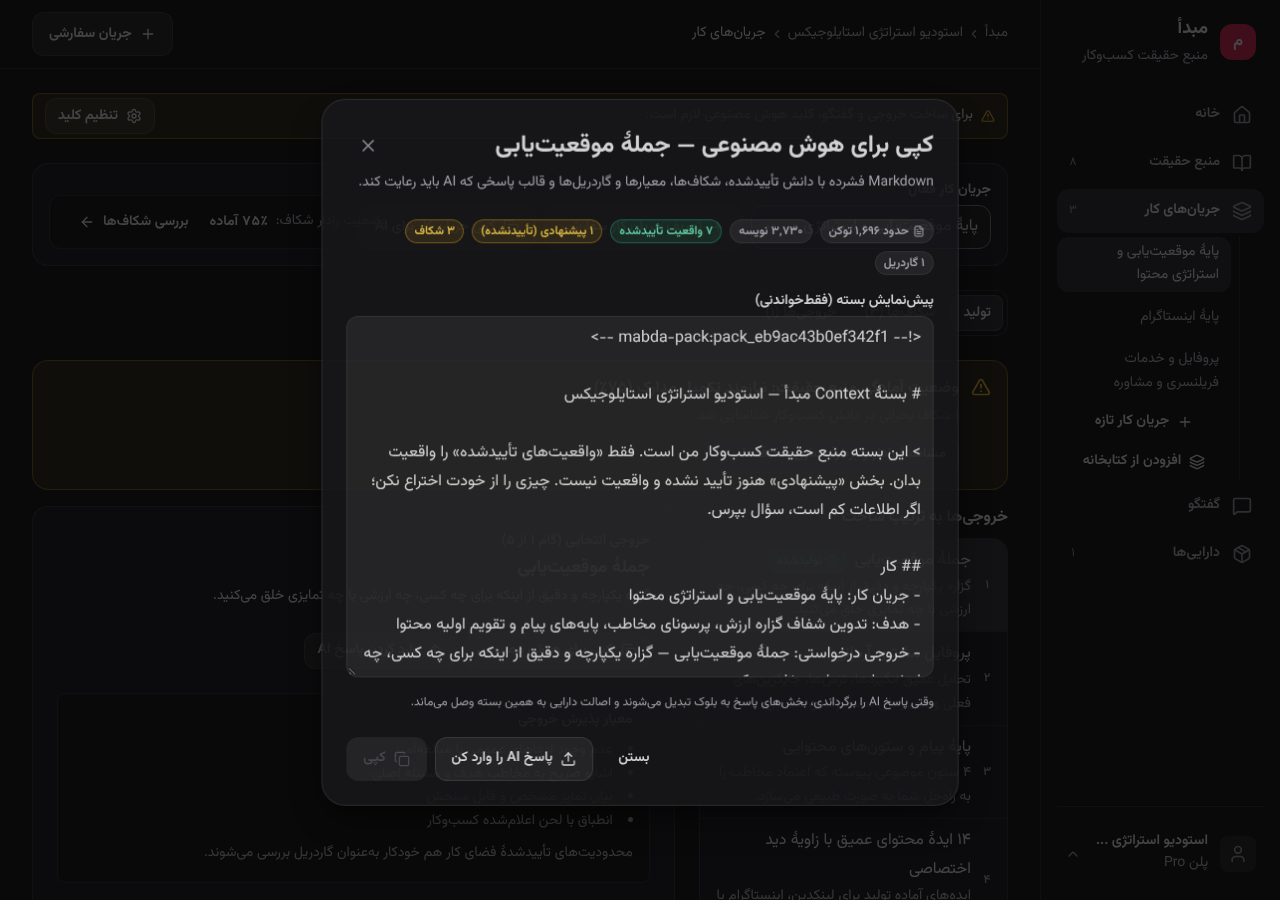
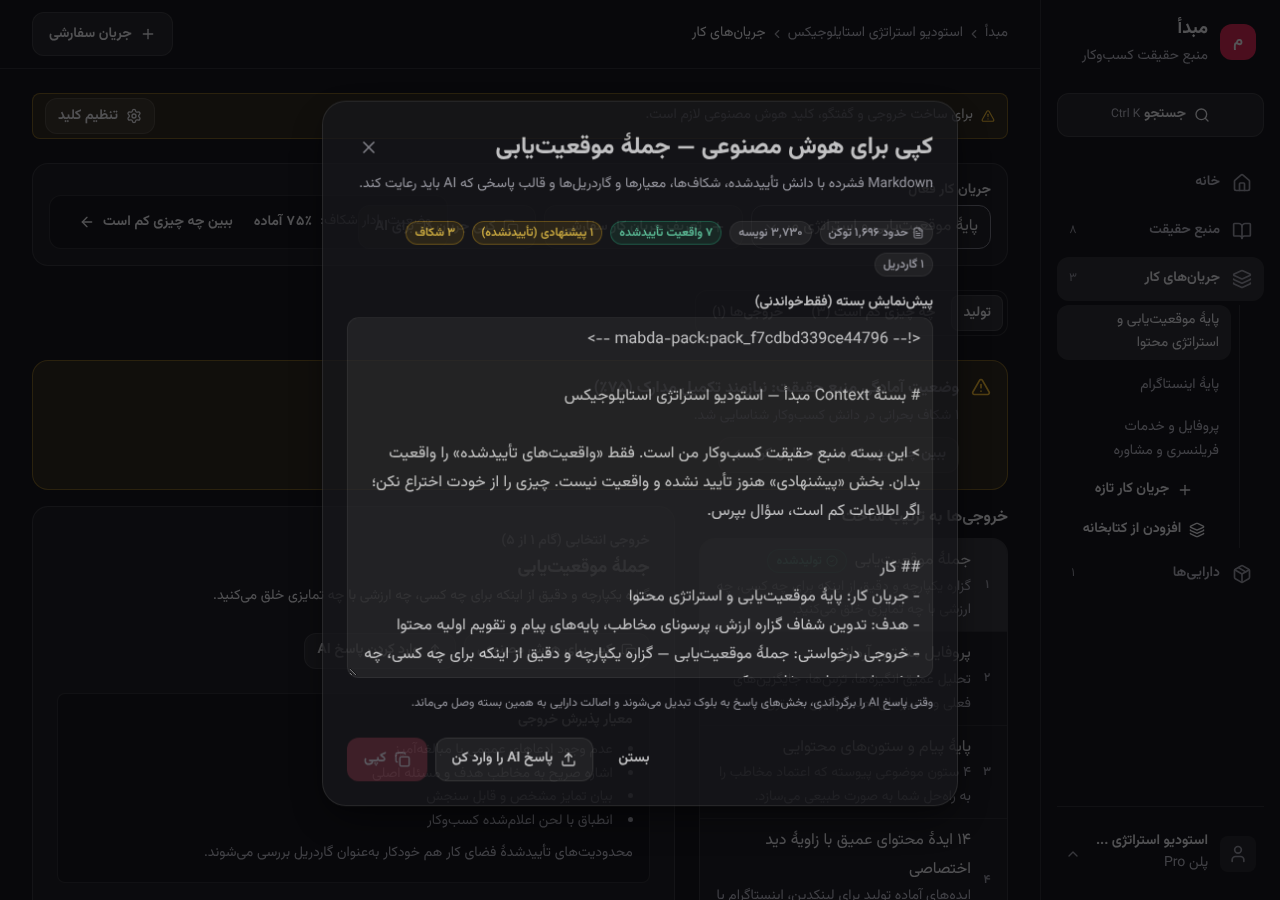
feat(ui): «افزودن مثال» داخل «بیشتر» برای قید و تصمیم همهجا؛ فضای نمونه با دو خط قرمز دارای مثال و یادداشت با سؤال بدون براکت
Claude-Session: https://claude.ai/code/session_012s3hWJ53mCG12g4v1cSDvK

diff --git a/src/core/demoData.ts b/src/core/demoData.ts
@@ -13,7 +13,7 @@ import { nodeTemplateOf } from './templates';
 import type { NodeTemplate } from './templates';
 import { DEFAULT_TREE_NODES } from './specs';
 import type {
-  ContextChange, ContextChangeActor, ContextChangeKind, ContextObject, ContextRelationship, GeneratedDeliverable, Note, ObjectSource, SavedPack, TreeNode, WorkstreamSpec,
+  ContextChange, ContextChangeActor, ContextChangeKind, ContextObject, ContextRelationship, GeneratedDeliverable, Note, ObjectSource, RedlineExample, SavedPack, TreeNode, WorkstreamSpec,
 } from '../types';
 
 const TEHRAN_OFFSET_MIN = 210; // UTC+3:30 (no daylight saving)
@@ -75,6 +75,8 @@ interface Spec {
   /** the record of a Decision: `reviewOnDaysAgo` becomes a date */
   record?: { question?: string; options?: Array<{ title: string; rejectedReason?: string }>; expectation?: string; reviewOnDaysAgo?: number };
   reach?: 'global' | 'position';
+  /** right / wrong examples of a red line */
+  examples?: RedlineExample[];
   /** days ago the object stopped applying (an end date in the past = expired) */
   expiredDaysAgo?: number;
 }
@@ -128,7 +130,7 @@ export function buildDemo(now: Date): DemoData {
     }
     objects.push({
       id: s.id, workspaceId: W, type: s.type, status, provenance: s.provenance, title: s.title, content, nodeId: s.node, version,
-      ...(s.supersededBy ? { supersededById: s.supersededBy.id } : {}), ...(s.slot ? { slotKey: s.slot } : {}), ...(s.reach ? { reach: s.reach } : {}), ...(s.assumption ? { assumption: true, ...(s.reviewByDaysAgo !== undefined ? { reviewBy: at(s.reviewByDaysAgo, 12).slice(0, 10) } : {}) } : {}),
+      ...(s.supersededBy ? { supersededById: s.supersededBy.id } : {}), ...(s.slot ? { slotKey: s.slot } : {}), ...(s.reach ? { reach: s.reach } : {}), ...(s.examples ? { examples: s.examples } : {}), ...(s.assumption ? { assumption: true, ...(s.reviewByDaysAgo !== undefined ? { reviewBy: at(s.reviewByDaysAgo, 12).slice(0, 10) } : {}) } : {}),
       ...(s.record ? { record: { ...(s.record.question ? { question: s.record.question } : {}), ...(s.record.options ? { options: s.record.options } : {}), ...(s.record.expectation ? { expectation: s.record.expectation } : {}), ...(s.record.reviewOnDaysAgo !== undefined ? { reviewOn: at(s.record.reviewOnDaysAgo, 12).slice(0, 10) } : {}) } } : {}), ...(s.expiredDaysAgo !== undefined ? { validUntil: at(s.expiredDaysAgo, 12).slice(0, 10) } : {}),
       ...(s.source ? { source: { kind: s.source.kind, ...(s.source.label ? { label: s.source.label } : {}), ...(s.source.reason ? { reason: s.source.reason } : {}), ...(s.source.quote ? { quote: s.source.quote } : {}), ...(s.source.noteId ? { noteId: s.source.noteId, lineKey: s.source.lineKey } : {}), at: at(s.source.daysAgo ?? s.created[0], s.created[1] ?? 10) } } : {}),
       createdAt: created, updatedAt: updated,
@@ -149,7 +151,8 @@ export function buildDemo(now: Date): DemoData {
   add({ id: 'dm_problem', type: 'Fact', node: 'business', title: 'معضل اصلی مخاطب', first: 'پیدا کردن قهوهٔ خوب سخت است.', status: 'Confirmed', provenance: 'User Input', slot: 'core_problem', created: [40, 12],
     edits: [{ d: 2, content: 'پیدا کردن قهوهٔ واقعاً تازه سخت است: بیشتر دانهها هفتهها پیش برشته شدهاند و تاریخ برشته روی بسته نیست.', reason: 'بعد از جوابهای نظرسنجی.' }] });
   add({ id: 'dm_valueprop', type: 'Decision', node: 'product', title: 'پیشنهاد ارزش', first: 'قهوهٔ تازهبرشته با تاریخ برشتهٔ روی بسته و یک منشأ تازه در هر ماه.', status: 'Confirmed', provenance: 'User Input', slot: 'value_proposition', created: [38] });
-  add({ id: 'dm_nodiscount', type: 'Constraint', node: 'offer', title: 'بدون تخفیف', first: 'تخفیف نداریم؛ ارزش را با کیفیت نشان میدهیم و روی قیمت اشتراک چانه نمیزنیم.', status: 'Confirmed', provenance: 'User Input', slot: 'pricing_boundary', created: [30], reach: 'global' });
+  add({ id: 'dm_nodiscount', type: 'Constraint', node: 'offer', title: 'بدون تخفیف', first: 'تخفیف نداریم؛ ارزش را با کیفیت نشان میدهیم و روی قیمت اشتراک چانه نمیزنیم.', status: 'Confirmed', provenance: 'User Input', slot: 'pricing_boundary', created: [30], reach: 'global',
+    examples: [{ kind: 'good', text: 'اشتراک سهماهه را با یک دانهٔ هدیه همراه میکنیم.' }, { kind: 'bad', text: 'فقط تا آخر هفته ۲۰٪ تخفیف!' }] });
   add({ id: 'dm_discount', type: 'Decision', node: 'offer', title: 'کمپین ماه اول', first: 'برای ماه اول اشتراک تخفیف ۲۰ درصد بدهیم.', status: 'Proposed', provenance: 'AI Suggested', created: [2, 15],
     source: { kind: 'mcp', label: 'Claude', reason: 'در گفتگو گفتی میخواهی ماه اول جذاب باشد.' } });
 
@@ -190,7 +193,8 @@ export function buildDemo(now: Date): DemoData {
   // ── workshop ───────────────────────────────────────────────────────────────────────────────
   add({ id: 'dm_ws_price', type: 'Decision', node: 'dn_ws', title: 'قیمت کارگاه', first: '۸۵۰ هزار تومان برای هر شرکتکننده.', status: 'Confirmed', provenance: 'User Input', slot: 'workshop_price', created: [22] });
   add({ id: 'dm_ws_cap', type: 'Fact', node: 'dn_ws', title: 'ظرفیت کارگاه', first: 'هر دوره حداکثر ۱۲ نفر ظرفیت دارد.', status: 'Confirmed', provenance: 'User Input', slot: 'workshop_capacity', created: [22, 11] });
-  add({ id: 'dm_ws_refund', type: 'Constraint', node: 'dn_ws', title: 'بازگشت وجه کارگاه', first: 'تا ۴۸ ساعت قبل از کارگاه بازگشت وجه کامل داریم؛ بعد از آن بازگشت وجه نداریم.', status: 'Confirmed', provenance: 'User Input', created: [22, 12], reach: 'position' });
+  add({ id: 'dm_ws_refund', type: 'Constraint', node: 'dn_ws', title: 'بازگشت وجه کارگاه', first: 'تا ۴۸ ساعت قبل از کارگاه بازگشت وجه کامل داریم؛ بعد از آن بازگشت وجه نداریم.', status: 'Confirmed', provenance: 'User Input', created: [22, 12], reach: 'position',
+    examples: [{ kind: 'good', text: 'انصراف ۵۰ ساعت قبل از کارگاه: بازگشت کامل وجه.' }, { kind: 'bad', text: 'انصراف همان روز کارگاه: بازگشت وجه.' }] });
   add({ id: 'dm_ws_plan', type: 'Decision', node: 'dn_ws_prog', title: 'برنامهٔ جلسهها', first: 'سه جلسهٔ دو ساعته: آشنایی با دانه، برشتهکاری، قهوهچشی.', status: 'Proposed', provenance: 'AI Suggested', created: [5, 11],
     source: { kind: 'coach', reason: 'از جوابهایت دربارهٔ کارگاه ساختم؛ بررسیاش کن.' } });
 
@@ -237,9 +241,9 @@ export function buildDemo(now: Date): DemoData {
 
   // ── notes: raw thoughts (never fed to a model) ────────────────────────────────────────────────
   const notes: Note[] = [
-    { id: 'dnote_1', nodeId: 'business', content: 'شاید یک اشتراک هدیه هم بسازیم؟ مناسب عید و تولد؛ کانالش را از @«کانال اصلی تبلیغ» برداریم؟', at: at(5, 20) },
-    { id: 'dnote_2', nodeId: 'dn_sub', content: 'اگر دانه را آسیابشده بفرستیم شکایتها کم میشود؟ ولی عطرش زود میپرد.', at: at(3, 21) },
-    { id: 'dnote_3', nodeId: 'dn_ws', content: 'کارگاه آنلاین هم برگزار کنیم؟ جلسهها را ضبط کنیم و بفروشیم.', at: at(2, 19) },
+    { id: 'dnote_1', nodeId: 'business', content: 'شاید یک اشتراک هدیه هم بسازیم؟ مناسب عید و تولد؛\nکانالش را از @«کانال اصلی تبلیغ» برداریم؟', at: at(5, 20) },
+    { id: 'dnote_2', nodeId: 'dn_sub', content: 'اگر دانه را آسیابشده بفرستیم شکایتها کم میشود؟\nولی عطرش زود میپرد.', at: at(3, 21) },
+    { id: 'dnote_3', nodeId: 'dn_ws', content: 'کارگاه آنلاین هم برگزار کنیم؟\nجلسهها را ضبط کنیم و بفروشیم.', at: at(2, 19) },
     { id: 'dnote_4', nodeId: 'dn_social', content: 'ریلز از مراحل برشتهکاری؛ صدای ترکخوردن دانه خیلی جذاب است.', at: at(2, 22) },
     { id: 'dnote_5', nodeId: 'dn_support', content: 'یک راهنمای کوتاه دمکردن توی هر بسته بگذاریم.', at: at(1, 18) },
     { id: 'dnote_7', nodeId: 'dn_sub', content: 'فکرهای این هفته دربارهٔ اشتراک:\n[سؤال] آیا دانه را آسیابشده هم بفرستیم؟\n[تصمیم باز] قیمت اشتراک سهماهه چقدر باشد؟\n[ایده] جعبهٔ هدیه برای عید\n[فرض] بیشتر مشتریها بعد از سه ماه تمدید میکنند\nاین [فرض] وسط خط است و نشانگر حساب نمیشود.', at: at(3, 11) },

diff --git a/src/components/ContextDetailModal.tsx b/src/components/ContextDetailModal.tsx
@@ -4,7 +4,7 @@
  */
 
 import React, { useEffect, useMemo, useState } from 'react';
-import { ContextDraft, ContextObject, Metric, MetricDirection, GeneratedDeliverable, ContextProvenance, ContextRelationship, ContextStatus, ContextType, TreeNode } from '../types';
+import { ContextDraft, ContextObject, RedlineExample, Metric, MetricDirection, GeneratedDeliverable, ContextProvenance, ContextRelationship, ContextStatus, ContextType, TreeNode } from '../types';
 import { dependentsOf, planDecisions } from '../core/decisionGraph';
 import type { ReviewNeed } from '../core/decisionGraph';
 import { flatten } from '../core/nodeTree';
@@ -17,6 +17,7 @@ import { ApprovalBadge, VersionHistoryView } from './VersionHistoryView';
 import { reasonAllowed, versionHistory } from '../core/versionHistory';
 import type { ContextChange } from '../types';
 import { MX } from '../core/metricsText';
+import { EXAMPLE_LIMIT, EXAMPLE_MAX_CHARS, canHaveExamples, cleanExamples } from '../core/redlineExamples';
 import { parseNumber } from '../core/metrics';
 import { dataApi } from '../services/dataApi';
 import { Alert, Badge, Button, Card, Checkbox, Dialog, Markdown, Menu, SegmentedControl, Select, Tabs, TextField, Textarea, formatJalaliDate, formatNumber } from '../ui';
@@ -115,6 +116,7 @@ const ContextDetailForm: React.FC<ContextDetailModalProps> = ({
   const [reach, setReach] = useState<'global' | 'position'>(object?.reach ?? (object?.type === 'Constraint' || !object ? 'global' : 'position'));
   const [validUntil, setValidUntil] = useState(object?.validUntil ?? '');
   const [facets, setFacets] = useState<string[]>(object?.facets ?? []);
+  const [examples, setExamples] = useState<RedlineExample[]>(object?.examples ?? []);
   const [facetDraft, setFacetDraft] = useState('');
   const [assumption, setAssumption] = useState(object?.assumption === true);
   const [reviewBy, setReviewBy] = useState(object?.reviewBy ?? '');
@@ -205,6 +207,7 @@ const ContextDetailForm: React.FC<ContextDetailModalProps> = ({
       ...(type === 'Constraint' ? { reach } : object?.reach ? { reach: object.reach } : {}),
       ...(validUntil ? { validUntil } : {}),
       ...(facetsFinal().length ? { facets: facetsFinal() } : {}),
+      ...(canHaveExamples({ type, reach: type === 'Constraint' ? reach : object?.reach }) && cleanExamples(examples) ? { examples: cleanExamples(examples) } : {}),
       ...(type === 'Fact' && assumption ? { assumption: true, ...(reviewBy ? { reviewBy } : {}) } : {}),
       ...(type === 'Decision' && (question.trim() || options.some((o) => o.title.trim()) || expectation.trim() || reviewOn || (expMetric && expBy))
         ? { record: { ...(question.trim() ? { question: question.trim() } : {}), ...(options.some((o) => o.title.trim()) ? { options: options.filter((o) => o.title.trim()).map((o) => ({ title: o.title.trim(), ...(o.rejectedReason.trim() ? { rejectedReason: o.rejectedReason.trim() } : {}) })) } : {}), ...(expectation.trim() ? { expectation: expectation.trim() } : {}), ...(reviewOn ? { reviewOn } : {}), ...(expMetric && expBy ? { metricExpectation: { metricId: expMetric, direction: expDir, ...(expTargetNum !== null ? { targetValue: expTargetNum } : {}), by: expBy } } : {}) } }
@@ -352,6 +355,21 @@ const ContextDetailForm: React.FC<ContextDetailModalProps> = ({
           <div className="flex flex-col gap-stack-xs">
             <SegmentedControl label="محدودهٔ اثر این قید" value={reach} onChange={(v) => setReach(v as 'global' | 'position')} items={[{ id: 'global', label: 'همهجا' }, { id: 'position', label: 'فقط این بخش و زیرشاخهها' }]} />
             <p className="body-sm text-text-subtle">{reach === 'global' ? 'در هر خروجی و گفتگو، در هر گرهای، گاردریل است.' : 'فقط برای این گره و زیرگرههایش گاردریل است؛ بخشهای دیگر آن را نمیبینند.'}</p>
+          </div>
+        )}
+        {canHaveExamples({ type, reach: type === 'Constraint' ? reach : object?.reach }) && (
+          <div className="flex flex-col gap-stack-sm" role="group" aria-label="مثالها" data-testid="redline-examples">
+            {examples.map((ex, i) => (
+              <div key={i} className="flex flex-col gap-stack-xs rounded-control-sm border border-border-subtle p-inset-md">
+                <div className="flex flex-wrap items-center justify-between gap-inline-sm">
+                  <SegmentedControl label={`مثال ${formatNumber(i + 1)}`} value={ex.kind} onChange={(v) => setExamples((l) => l.map((x, j) => (j === i ? { ...x, kind: v as RedlineExample['kind'] } : x)))} items={[{ id: 'good', label: 'درست' }, { id: 'bad', label: 'نادرست' }]} />
+                  <Button type="button" size="sm" variant="ghost" iconStart="X" aria-label={`حذف مثال ${formatNumber(i + 1)}`} onClick={() => setExamples((l) => l.filter((_, j) => j !== i))}>حذف</Button>
+                </div>
+                <TextField label="متن کوتاه مثال" value={ex.text} maxLength={EXAMPLE_MAX_CHARS} onChange={(e) => setExamples((l) => l.map((x, j) => (j === i ? { ...x, text: e.target.value } : x)))} hint={ex.kind === 'good' ? 'یک نمونه از آنچه این قاعده را رعایت میکند.' : 'یک نمونه از آنچه این قاعده را میشکند.'} />
+              </div>
+            ))}
+            {examples.length < EXAMPLE_LIMIT && <div><Button type="button" size="sm" variant="ghost" iconStart="Plus" onClick={() => setExamples((l) => [...l, { kind: l.some((x) => x.kind === 'good') ? 'bad' : 'good', text: '' }])}>افزودن مثال</Button></div>}
+            {examples.length > 0 && <p className="body-sm text-text-subtle">مثالها کنار همین قاعده به AI میروند تا مرز را بهتر بفهمد.</p>}
           </div>
         )}
         {isEditing && !isSupersedingMode && reasonAllowed(object!.status) && (

diff --git a/src/services/dataApi.ts b/src/services/dataApi.ts
@@ -99,9 +99,9 @@ export const dataApi = {
   deleteNode: (id: string, nodeId: string, transferTo?: string) =>
     call<{ nodes: TreeNode[]; objects: ContextObject[]; notes: Note[]; files: StoredFile[] }>('DELETE', `${ws(id)}/nodes/${nodeId}${transferTo ? `?transferTo=${encodeURIComponent(transferTo)}` : ''}`),
 
-  createObject: (id: string, input: { type: ContextType; status?: ContextStatus; provenance: ContextProvenance; title: string; content: string; nodeId: string; source?: ObjectSource; slotKey?: string; reach?: ContextObject['reach']; validUntil?: string; assumption?: boolean; reviewBy?: string; record?: import('../types').DecisionRecord; facets?: string[] }) =>
+  createObject: (id: string, input: { type: ContextType; status?: ContextStatus; provenance: ContextProvenance; title: string; content: string; nodeId: string; source?: ObjectSource; slotKey?: string; reach?: ContextObject['reach']; validUntil?: string; assumption?: boolean; reviewBy?: string; record?: import('../types').DecisionRecord; facets?: string[]; examples?: import('../types').RedlineExample[] }) =>
     call<{ object: ContextObject }>('POST', `${ws(id)}/objects`, input),
-  updateObject: (id: string, objectId: string, patch: Partial<Pick<ContextObject, 'type' | 'title' | 'content' | 'nodeId' | 'status' | 'provenance' | 'slotKey'>> & { reach?: ContextObject['reach'] | null; validUntil?: string | null; assumption?: boolean; reviewBy?: string | null; record?: import('../types').DecisionRecord | null; facets?: string[] | null; reason?: string }) =>
+  updateObject: (id: string, objectId: string, patch: Partial<Pick<ContextObject, 'type' | 'title' | 'content' | 'nodeId' | 'status' | 'provenance' | 'slotKey'>> & { reach?: ContextObject['reach'] | null; validUntil?: string | null; assumption?: boolean; reviewBy?: string | null; record?: import('../types').DecisionRecord | null; facets?: string[] | null; examples?: import('../types').RedlineExample[] | null; reason?: string }) =>
     call<{ object: ContextObject; impact: ImpactInfo; stale: StaleAsset[] }>('PATCH', `${ws(id)}/objects/${objectId}`, patch),
   supersedeObject: (id: string, objectId: string, input: { type: ContextType; status?: ContextStatus; provenance: ContextProvenance; title: string; content: string; nodeId: string; reason?: string }) =>
     call<{ object: ContextObject; previous: ContextObject; impact: ImpactInfo; relationships: ContextRelationship[]; stale: StaleAsset[] }>('POST', `${ws(id)}/objects/${objectId}/supersede`, input),

diff --git a/src/App.tsx b/src/App.tsx
@@ -300,13 +300,13 @@ export default function App() {
   const handleSaveContextObject = async (draft: ContextDraft, opts?: { reason?: string }): Promise<ContextObject | undefined> => {
     const existing = draft.id ? workspaceContexts.find((o) => o.id === draft.id) : undefined;
     if (existing) {
-      const r = await attempt(() => dataApi.updateObject(wid, existing.id, { type: draft.type, title: draft.title, content: draft.content, nodeId: draft.nodeId, status: draft.status, provenance: draft.provenance, slotKey: draft.slotKey, reach: draft.reach ?? null, validUntil: draft.validUntil ?? null, assumption: draft.assumption === true, reviewBy: draft.reviewBy ?? null, record: draft.record ?? null, facets: draft.facets ?? null, ...(opts?.reason ? { reason: opts.reason } : {}) }));
+      const r = await attempt(() => dataApi.updateObject(wid, existing.id, { type: draft.type, title: draft.title, content: draft.content, nodeId: draft.nodeId, status: draft.status, provenance: draft.provenance, slotKey: draft.slotKey, reach: draft.reach ?? null, validUntil: draft.validUntil ?? null, assumption: draft.assumption === true, reviewBy: draft.reviewBy ?? null, record: draft.record ?? null, facets: draft.facets ?? null, examples: draft.examples ?? null, ...(opts?.reason ? { reason: opts.reason } : {}) }));
       if (!r) return undefined;
       patch((d) => ({ ...d, objects: d.objects.map((o) => (o.id === r.object.id ? r.object : o)), stale: r.stale }));
       showImpact(r.impact);
       return r.object;
     }
-    const r = await attempt(() => dataApi.createObject(wid, { type: draft.type, status: draft.status, provenance: draft.provenance, title: draft.title, content: draft.content, nodeId: draft.nodeId, source: draft.source, slotKey: draft.slotKey, reach: draft.reach, validUntil: draft.validUntil, assumption: draft.assumption, reviewBy: draft.reviewBy, record: draft.record, facets: draft.facets }));
+    const r = await attempt(() => dataApi.createObject(wid, { type: draft.type, status: draft.status, provenance: draft.provenance, title: draft.title, content: draft.content, nodeId: draft.nodeId, source: draft.source, slotKey: draft.slotKey, reach: draft.reach, validUntil: draft.validUntil, assumption: draft.assumption, reviewBy: draft.reviewBy, record: draft.record, facets: draft.facets, examples: draft.examples }));
     if (!r) return undefined;
     patch((d) => ({ ...d, objects: [r.object, ...d.objects] }));
     track('action.record');

diff --git a/server/db/db.test.ts b/server/db/db.test.ts
@@ -481,7 +481,7 @@ test('migration 15: a saved pack may be a saved «درخواست برای AI» (
 test('migration 16 + usage counters: a catalog key is counted, anything else is refused, and nothing but key / number / time is stored', () => {
   const db = new Database(':memory:');
   migrate(db, 15);
-  assert.deepEqual(migrate(db), [16]);
+  assert.deepEqual(migrate(db, 16), [16]);
   const repo = new Repo(db);
   repo.bumpUsage(U, 'view.home'); repo.bumpUsage(U, 'view.home'); repo.bumpUsage(U, 'dialog.record');
   const rows = repo.listUsage(U);
